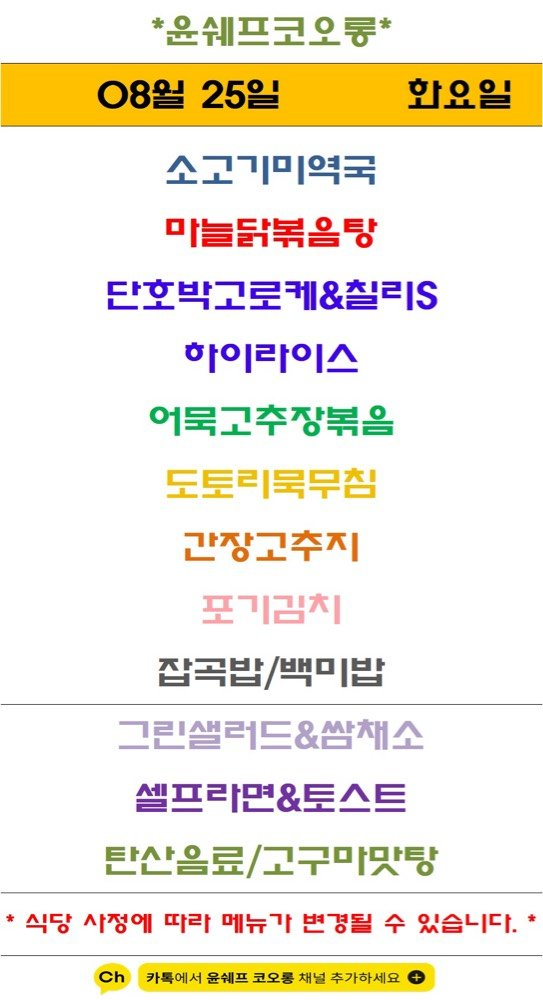
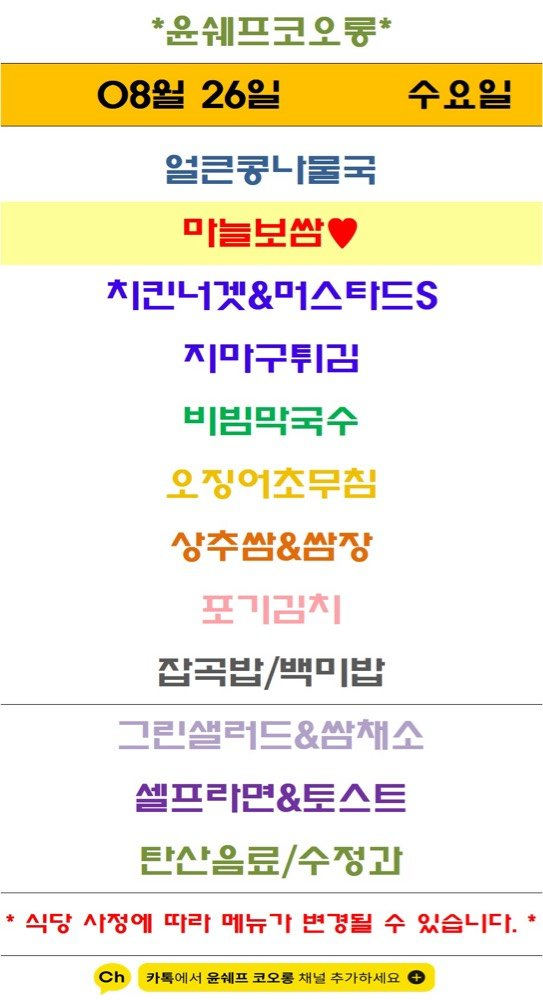
Update menu board assets

diff --git a/menu-today/index.html b/menu-today/index.html
@@ -209,7 +209,7 @@
 
     <section class="meta-bar">
       <div class="meta-card"><div class="meta-label">기준 날짜</div><div class="meta-value">2026년 8월 26일 수요일</div></div>
-      <div class="meta-card"><div class="meta-label">최종 가져온 시간</div><div class="meta-value">2026-08-26 09:03:10</div></div>
+      <div class="meta-card"><div class="meta-label">최종 가져온 시간</div><div class="meta-value">2026-08-26 09:13:01</div></div>
       <div class="meta-card"><div class="meta-label">확인 완료</div><div class="meta-value">9개 식당</div></div>
       <div class="meta-card"><div class="meta-label">준비중</div><div class="meta-value">3개 채널</div></div>
     </section>
@@ -225,7 +225,7 @@
             <div class="sub">현대테라타워 가산DK</div>
           </div>
         </div>
-        <div class="menu-inline-image"><img src="./images/imeal.png" alt="아이밀 식단 이미지"></div><ul><li>크림스프</li><li>타워함박스테이크 &amp;</li><li>ee) 라구파스타</li><li>수제모듬피클</li><li>가든샐러드</li><li>포기김치</li><li>백미밥 / 흑미밥</li><li>타워</li><li>테이크 &amp;</li><li>라구파스타</li><li>타워함박</li><li>『그린빈어묵볶음</li></ul>
+        <div class="menu-inline-image"><img src="./images/imeal.png" alt="아이밀 식단 이미지"></div><ul><li>크림스프</li><li>타워함박스테이크 &amp;</li><li>ee) 라구파스타</li><li>수제모듬피클</li><li>가든샐러드 &amp; 오렌지D</li><li>포기김치</li><li>백미밥 / 흑미밥</li><li>타워</li><li>테이크 &amp;</li><li>라구파스타</li><li>타워함박</li><li>『그린빈어묵볶음</li></ul>
       </article>
 
       <article class="restaurant-card">
@@ -265,7 +265,7 @@
             <div class="sub">가산비즈니스센터</div>
           </div>
         </div>
-        <div class="menu-inline-image"><img src="./images/raonfood.png" alt="구내식당라온푸드 식단 이미지"></div><ul><li>닭곰탐 / 타대)</li><li>우삼겹숙주볶음</li><li>생선까스 / 타르타르S</li><li>제육김지두루지 )</li><li>철판들기름두부구이</li><li>샐러드 &amp; 드레싱</li><li>se &amp; 음료</li><li>다그타</li></ul>
+        <div class="menu-inline-image"><img src="./images/raonfood.png" alt="구내식당라온푸드 식단 이미지"></div><ul><li>닭곰탐 / 타대)</li><li>우삼겹숙주볶음</li><li>생선까스 / 타르타르</li><li>제육김지두루지 )</li><li>철판들기름두부구이</li><li>샐러드 &amp; 드레싱</li><li>se &amp; 음료</li><li>다그타</li></ul>
       </article>
 
       <article class="restaurant-card">

diff --git a/guro-menu/index.html b/guro-menu/index.html
@@ -32,7 +32,7 @@
   </header>
   <section class="meta">
     <div><small>기준 날짜</small><strong>2026년 8월 26일 수요일</strong></div>
-    <div><small>최종 갱신</small><strong>2026-08-26 09:03:23</strong></div>
+    <div><small>최종 갱신</small><strong>2026-08-26 09:13:18</strong></div>
     <div><small>등록 식당</small><strong>5개</strong></div>
   </section>
   <div class="notice">공개 카카오 채널의 메뉴 이미지를 자동 수집하고 OCR로 정리합니다. 텍스트에 오타가 있을 수 있으니 식단 이미지를 함께 확인해 주세요.</div>
@@ -103,8 +103,8 @@
           <a class="channel" href="https://pf.kakao.com/_Xxhxkhs" target="_blank" rel="noopener">원본 채널</a>
         </div>
         <img class="menu-image" src="./images/yoon-chef-kolon.png" alt="윤쉐프 코오롱 식단 이미지" loading="lazy">
-        <p class="message">최신 공개 식단 이미지의 텍스트입니다. 날짜는 원본 이미지를 확인해 주세요.</p>
-        <ul><li>O82! 25일 한요일</li><li>소고기미역국</li><li>단호박고로케&amp;칠리6</li><li>하이라이스</li><li>어묵고추장볶음</li><li>간장고추지</li><li>잡곡밥/백미밥</li><li>그린샐러드&amp;쌈재소</li><li>셀프라면&amp;토스트</li><li>탄산음료/고구마맛탕</li><li>* 식당 사정에 따라 메뉴가 Som 수 있습니다. *</li></ul>
+        
+        <ul><li>얼큰콩나물국</li><li>마늘보쌈</li><li>지킨너젯&amp;머스타드6</li><li>지미구튀김</li><li>비빔막국수</li><li>잡곡밥/백미밥</li><li>그린샐러드&amp;쌈채소</li><li>셀프라면&amp;토스트</li><li>탄산음료/수정과</li><li>* 식당 사정에 따라 메뉴가 Som 수 있습니다. *</li></ul>
       </article>
   </section>
   <section class="seo" aria-label="검색 정보">한신IT타워 구내식당 자연푸드 구내식당 더이츠푸드 벽산더이룸 윤쉐프 코오롱 한신IT타워 벽산디지털밸리7차 대륭포스트타워1차 벽산디지털밸리1차 코오롱싸이언스밸리1차 서울 구로구 디지털로 272 한신IT타워 지하1층 서울 구로구 디지털로33길 50 벽산디지털밸리7차 지하1층 서울 구로구 디지털로 288 대륭포스트타워1차 지하1층 서울 구로구 디지털로27길 24 벽산디지털밸리1차 지하1층 서울 구로구 디지털로34길 43 코오롱싸이언스밸리1차 지하1층</section>
